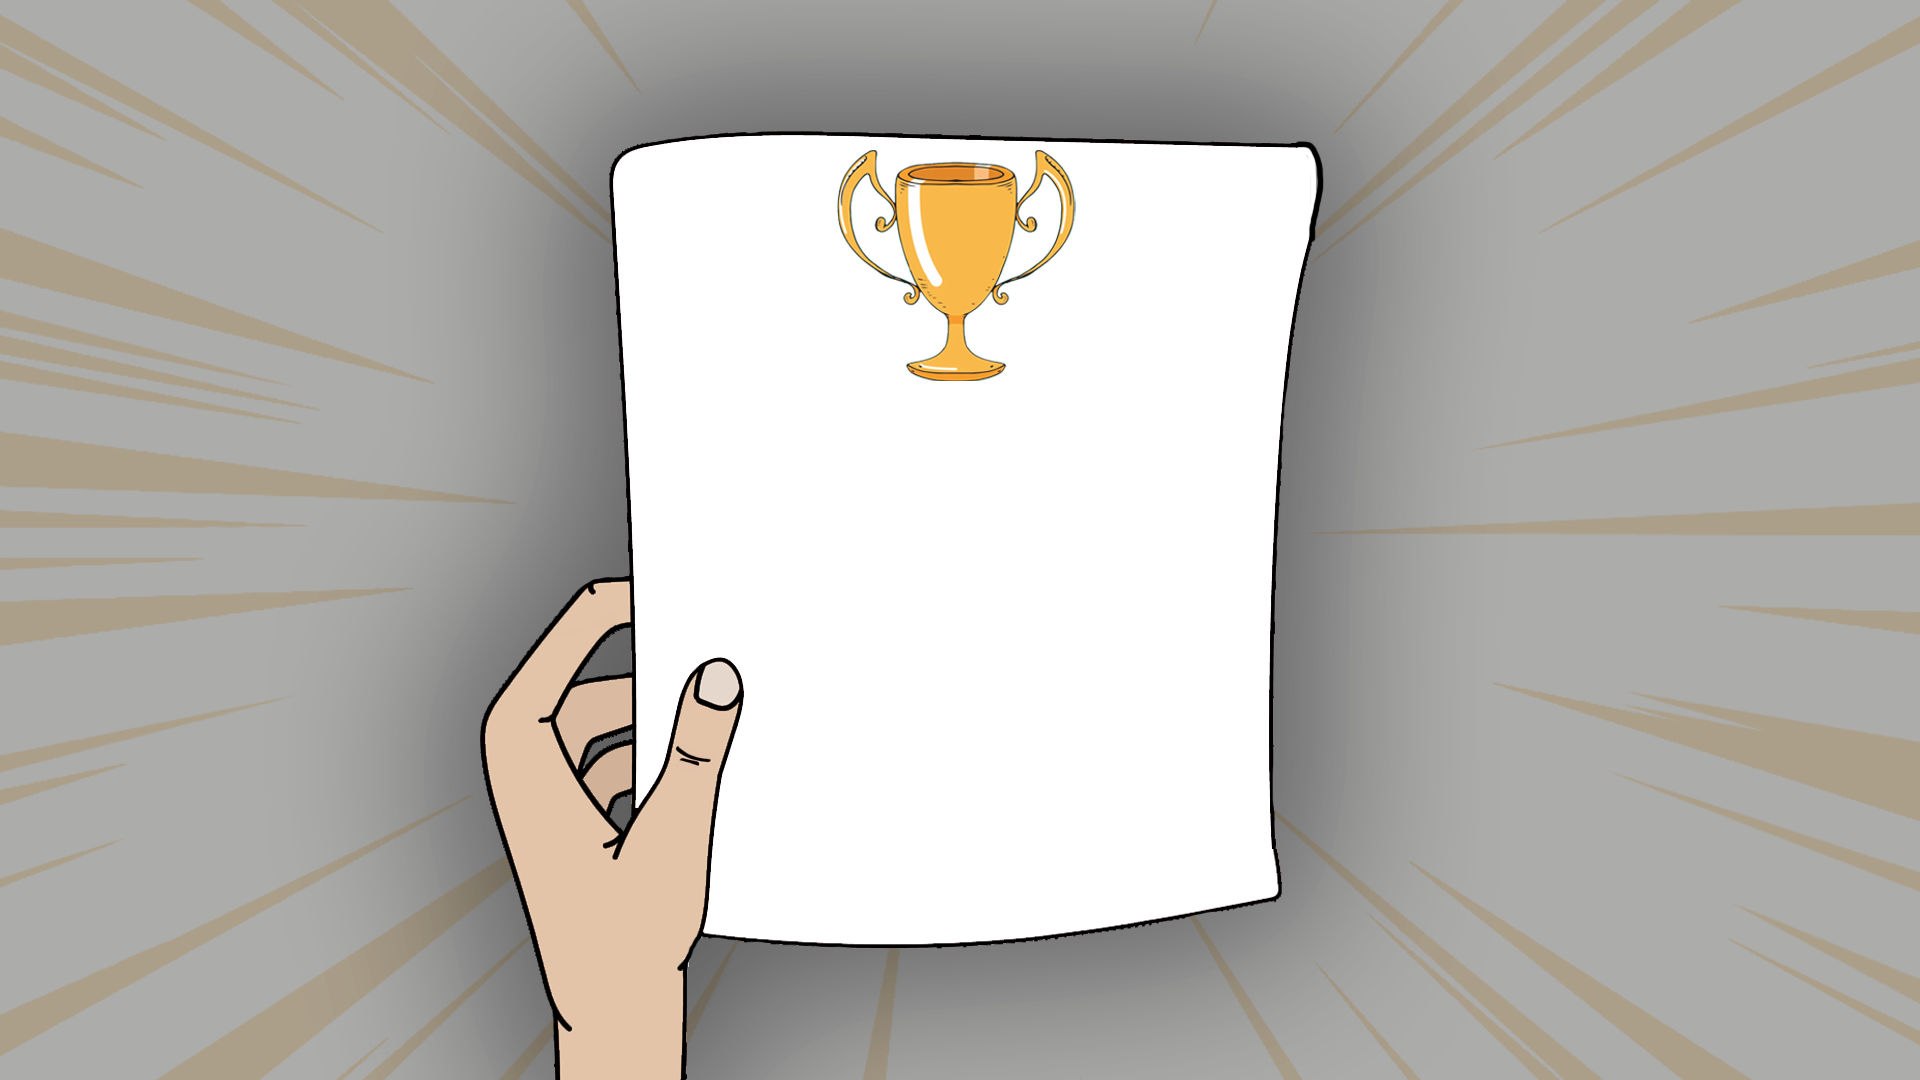
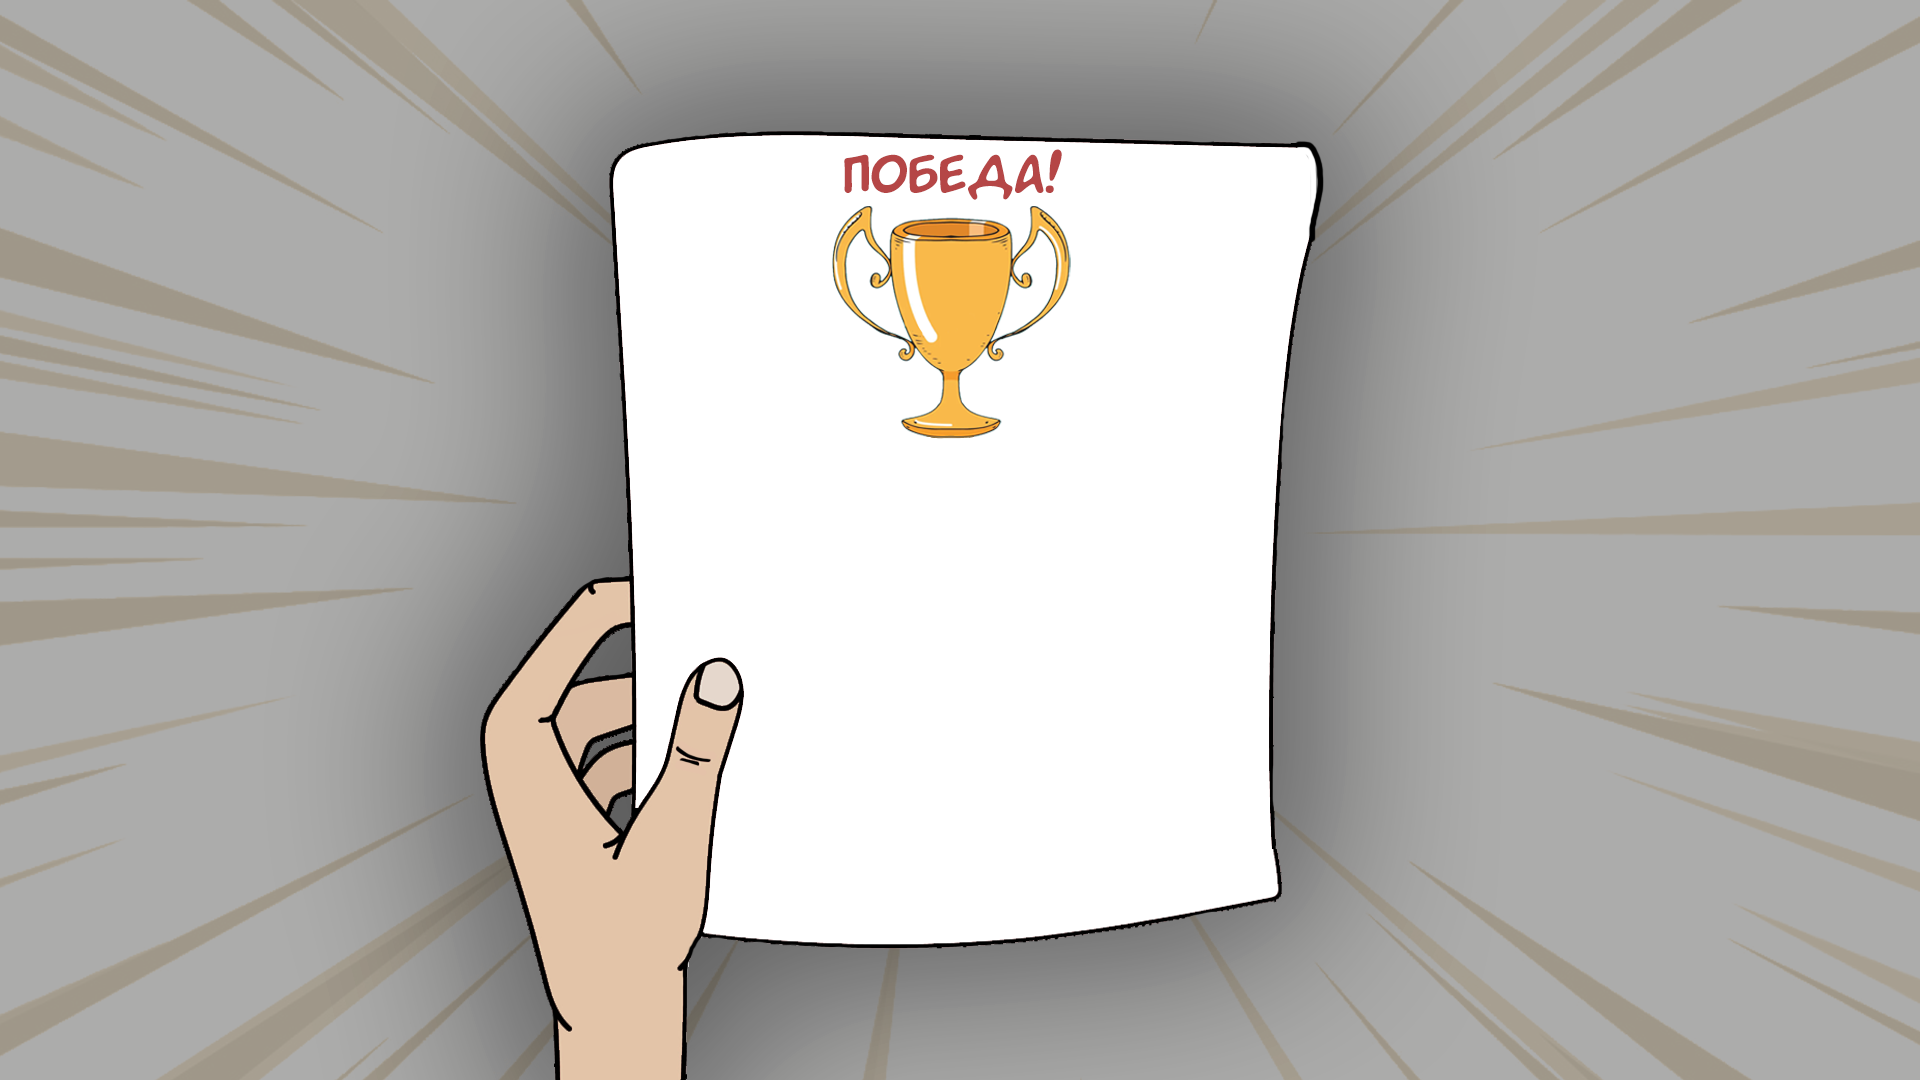
SystemDone

Changed region(s): [[0.4375, 0.1222, 0.5625, 0.4278]]

diff --git a/GallowsGame/GallowsGame/ModalWindows/WinGameWindow.xaml b/GallowsGame/GallowsGame/ModalWindows/WinGameWindow.xaml
@@ -9,15 +9,26 @@
                    HorizontalOptions="FillAndExpand" 
                    VerticalOptions="FillAndExpand" 
                    Aspect="AspectFill"/>
+            <Label
+                Margin="0,130,20,0"
+                x:Name="winText"
+                TextColor="Black"
+                FontSize="40"
+                FontFamily="Maki-Sans"
+                WidthRequest="400"
+                 HorizontalOptions="Center" 
+                 VerticalOptions="Center" 
+                 HorizontalTextAlignment="Center"
+                />
             <Button
-                    Text="OK"
+                    Text="Вернуться"
                     Background="Transparent"
                 WidthRequest="300"
                 HeightRequest="100"
-                    TextColor="Red"
-                    FontSize ="60"
+                    TextColor="#ac1f1f"
+                    FontSize ="38"
                     FontFamily="Maki-Sans"
-                    Margin="0,500,30,0"
+                    Margin="0,500,20,0"
                     Clicked="OnOkButtonClicked"
                     />
 

diff --git a/GallowsGame/GallowsGame/ModalWindows/WinRoundWindow.xaml b/GallowsGame/GallowsGame/ModalWindows/WinRoundWindow.xaml
@@ -5,10 +5,20 @@
 
     <ContentPage.Content>
         <Grid>
-            <Image Source="win_summary_bg.png" 
+            <Image Source="win_summary_background.png" 
                    HorizontalOptions="FillAndExpand" 
                    VerticalOptions="FillAndExpand" 
                    Aspect="AspectFill"/>
+            <Label
+                     Margin="0,55,20,0"
+                     x:Name="infoText"
+                     FontSize="42"
+                     FontFamily="Maki-Sans"
+                     WidthRequest="450"
+                      HorizontalOptions="Center" 
+                      VerticalOptions="Center" 
+                      HorizontalTextAlignment="Center"
+             />
             <Button
                     Text="OK"
                     Background="Transparent"

diff --git a/GallowsGame/GallowsGame/ModalWindows/LoseRoundWindow.xaml b/GallowsGame/GallowsGame/ModalWindows/LoseRoundWindow.xaml
@@ -5,10 +5,20 @@
 
     <ContentPage.Content>
         <Grid>
-            <Image Source="lose_summary_bg.png" 
+            <Image Source="lose_summary_background.png" 
                    HorizontalOptions="FillAndExpand" 
                    VerticalOptions="FillAndExpand" 
                    Aspect="AspectFill"/>
+			<Label
+					Margin="0,55,20,0"
+					x:Name="infoText"
+					FontSize="42"
+					FontFamily="Maki-Sans"
+					WidthRequest="450"
+					 HorizontalOptions="Center"
+					 VerticalOptions="Center"
+					 HorizontalTextAlignment="Center"
+             />
             <Button
                     Text="OK"
                     Background="Transparent"

diff --git a/GallowsGame/GallowsGame/ModalWindows/WinGameWindow.xaml.cs b/GallowsGame/GallowsGame/ModalWindows/WinGameWindow.xaml.cs
@@ -4,10 +4,36 @@ namespace GallowsGame
 {
     public partial class WinGameWindow : ContentPage
     {
-        public WinGameWindow()
+        private string winner;
+        public WinGameWindow(string winner, int firstRoundsCount, int secondRoundsCount)
         {
             InitializeComponent();
             this.Opacity = 0;
+
+            int maxWinRound = firstRoundsCount > secondRoundsCount ? firstRoundsCount : secondRoundsCount;
+            int minWinRound = firstRoundsCount < secondRoundsCount ? firstRoundsCount : secondRoundsCount;
+
+            var formattedString = new FormattedString();
+
+            var winnerSpan = new Span
+            {
+                FontFamily = "Maki-Sans",
+                Text = winner + "\n побеждает\n в игре со счётом\n",
+                TextColor = Colors.Black 
+            };
+
+            var scoreSpan = new Span
+            {
+                FontFamily = "Maki-Sans",
+                Text = $"{maxWinRound}:{minWinRound}",
+                TextColor = Colors.Red
+            };
+
+            formattedString.Spans.Add(winnerSpan);
+            formattedString.Spans.Add(scoreSpan);
+
+            winText.FormattedText = formattedString;
+
         }
 
         protected override async void OnAppearing()
@@ -26,10 +52,9 @@ namespace GallowsGame
 
             await Navigation.PopModalAsync();
 
-            await Shell.Current.GoToAsync(nameof(EnterWordPage));
+            await Shell.Current.GoToAsync(nameof(SidePeekPage));
         }
     }
-
     }
 
 

diff --git a/GallowsGame/GallowsGame/ModalWindows/WinRoundWindow.xaml.cs b/GallowsGame/GallowsGame/ModalWindows/WinRoundWindow.xaml.cs
@@ -5,12 +5,34 @@ namespace GallowsGame
 {
     public partial class WinRoundWindow : ContentPage
     {
-        public WinRoundWindow()
+        public WinRoundWindow(string guesser)
         {
             InitializeComponent();
             this.Opacity = 0;
-        }
 
+            var formattedString = new FormattedString();
+
+            var guesserSpan = new Span
+            {
+                FontFamily = "Maki-Sans",
+                Text = guesser,
+                TextColor = Colors.Red 
+            };
+
+            var remainingTextSpan = new Span
+            {
+                FontFamily = "Maki-Sans",
+                Text = ", Вы выиграли раунд :)\n\n Загадывайте слово!",
+                TextColor = Colors.Black 
+            };
+
+            formattedString.Spans.Add(guesserSpan);
+            formattedString.Spans.Add(remainingTextSpan);
+
+            infoText.FormattedText = formattedString;
+
+        }
+        
         protected override async void OnAppearing()
         {
             base.OnAppearing();

diff --git a/GallowsGame/GallowsGame/ModalWindows/LoseRoundWindow.xaml.cs b/GallowsGame/GallowsGame/ModalWindows/LoseRoundWindow.xaml.cs
@@ -4,11 +4,35 @@ namespace GallowsGame
 {
     public partial class LoseRoundWindow : ContentPage
     {
-        public LoseRoundWindow()
+        public LoseRoundWindow(string guesser)
         {
             InitializeComponent();
             this.Opacity = 0;
+            infoText.Text = guesser;
+
+            var formattedString = new FormattedString();
+
+            var guesserSpan = new Span
+            {
+                FontFamily = "Maki-Sans",
+                Text = guesser,
+                TextColor = Colors.Red
+            };
+
+            var remainingTextSpan = new Span
+            {
+                FontFamily = "Maki-Sans",
+                Text = ", Вы проиграли раунд :(\n\n Загадывайте слово!",
+                TextColor = Colors.Black
+            };
+
+            formattedString.Spans.Add(guesserSpan);
+            formattedString.Spans.Add(remainingTextSpan);
+
+            infoText.FormattedText = formattedString;
+
         }
+ 
 
         protected override async void OnAppearing()
         {

diff --git a/GallowsGame/GallowsGame/AppShell.xaml.cs b/GallowsGame/GallowsGame/AppShell.xaml.cs
@@ -9,6 +9,8 @@ namespace GallowsGame
             InitializeComponent();
 
             Routing.RegisterRoute(nameof(EnterWordPage), typeof(EnterWordPage));
+            Routing.RegisterRoute(nameof(SidePeekPage), typeof(SidePeekPage));
+
         }
     }
 }
